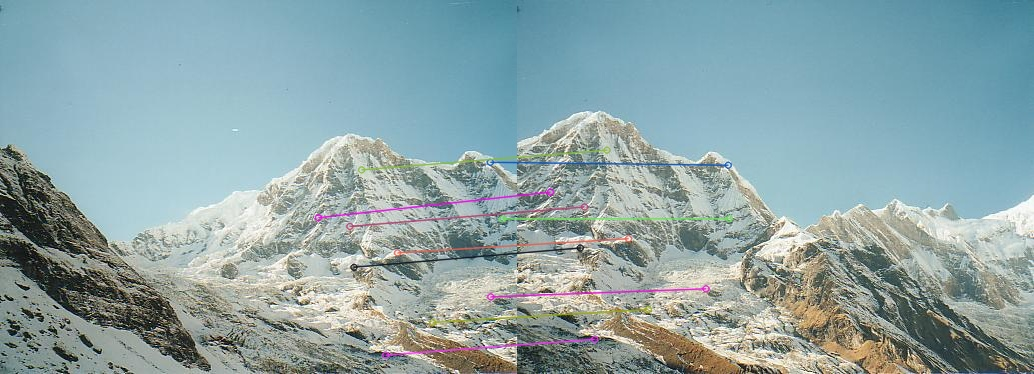
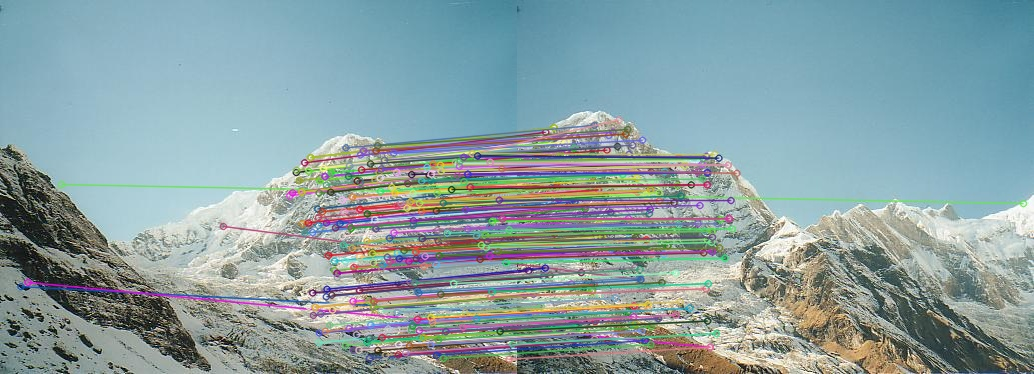
project done

Changed region(s): [[0.0, 0.3235, 1.0, 0.9706], [0.0309, 0.4706, 0.1857, 0.5], [0.2166, 0.5882, 0.2476, 0.6176]]

diff --git a/gmm.py b/gmm.py
@@ -1,0 +1,132 @@
+import numpy as np
+import pandas as pd
+import random
+import matplotlib.pyplot as plt
+from scipy.stats import multivariate_normal
+import sys
+from matplotlib.patches import Ellipse
+np.random.seed(sum([ord(c) for c in 'kishandh@buffalo']))
+
+def plot_cov_ellipse(cov, pos, nstd=2, ax=None, **kwargs):
+    def eigsorted(cov):
+        vals, vecs = np.linalg.eigh(cov)
+        order = vals.argsort()[::-1]
+        return vals[order], vecs[:,order]
+
+    if ax is None:
+        ax = plt.gca()
+
+    vals, vecs = eigsorted(cov)
+    theta = np.degrees(np.arctan2(*vecs[:,0][::-1]))
+    width, height = 2 * nstd * np.sqrt(vals)
+    ellip = Ellipse(xy=pos, width=width, height=height, angle=theta, **kwargs)
+
+    ax.add_artist(ellip)
+    return ellip
+
+def find(data, center, mu, sig, pi, all_prob):
+    for k in range(3):
+        gaussian = multivariate_normal(mean=mu[k],cov=sig[k])
+        num = pi[k] * gaussian.pdf(data)
+        den=[]
+        for p,m,si in zip(pi,mu,sig):
+            den.append(p*multivariate_normal(mean=m,cov=si).pdf(data))
+        den=np.sum(den,axis=0)
+        all_prob[:,k]=num/den
+    return center
+
+def update(data, center, mu, sig, pi, all_prob):
+    res={}
+    clustered_data={}
+    for i in range(len(data)):
+        if center[i] in res:
+            clustered_data[center[i]].append(data[i])
+            res[center[i]]+=1
+        else:
+            clustered_data[center[i]]=[data[i]]
+            res[center[i]]=1
+    data=np.array(data)
+    for i in range(3):
+        zg = np.sum(all_prob[:,i], axis=0)
+        m = (1/zg)*np.sum(data*all_prob[:,i].reshape(len(data),1),axis=0)
+        mu[i]=m
+        diff = data-m
+        sig[i]=((np.dot((np.array(all_prob[:,i]).reshape(len(data),1)*(diff)).transpose(),(diff))/(zg)))
+        pi[i]=(zg/np.sum(all_prob))
+    return pi, mu, sig
+
+_x=[]
+_x.append([(5.9, 3.2), (4.6, 2.9), (6.2, 2.8), (4.7, 3.2), (5.5, 4.2), (5.0, 3.0),
+       (4.9, 3.1), (6.7, 3.1), (5.1, 3.8), (6.0, 3.0)])
+_x.append([(3.600, 79),(1.800, 54),(3.333, 74),(2.283, 62),(4.533, 85),(2.883, 55),(4.700, 88),(3.600, 85),
+   (1.950, 51),(4.350, 85),(1.833, 54),(3.917, 84),(4.200, 78),(1.750, 47),(4.700, 83),(2.167, 52),
+   (1.750, 62),(4.800, 84),(1.600, 52),(4.250, 79),(1.800, 51),(1.750, 47),(3.450, 78),(3.067, 69),
+   (4.533, 74),(3.600, 83),(1.967, 55),(4.083, 76),(3.850, 78),(4.433, 79),(4.300, 73),(4.467, 77),
+   (3.367, 66),(4.033, 80),(3.833, 74),(2.017, 52),(1.867, 48),(4.833, 80),(1.833, 59),(4.783, 90),
+   (4.350, 80),(1.883, 58),(4.567, 84),(1.750, 58),(4.533, 73),(3.317, 83),(3.833, 64),(2.100, 53),
+   (4.633, 82),(2.000, 59),(4.800, 75),(4.716, 90),(1.833, 54),(4.833, 80),(1.733, 54),(4.883, 83),
+   (3.717, 71),(1.667, 64),(4.567, 77),(4.317, 81),(2.233, 59),(4.500, 84),(1.750, 48),(4.800, 82),
+   (1.817, 60),(4.400, 92),(4.167, 78),(4.700, 78),(2.067, 65),(4.700, 73),(4.033, 82),(1.967, 56),
+   (4.500, 79),(4.000, 71),(1.983, 62),(5.067, 76),(2.017, 60),(4.567, 78),(3.883, 76),(3.600, 83),
+   (4.133, 75),(4.333, 82),(4.100, 70),(2.633, 65),(4.067, 73),(4.933, 88),(3.950, 76),(4.517, 80),
+   (2.167, 48),(4.000, 86),(2.200, 60),(4.333, 90),(1.867, 50),(4.817, 78),(1.833, 63),(4.300, 72),
+   (4.667, 84),(3.750, 75),(1.867, 51),(4.900, 82),(2.483, 62),(4.367, 88),(2.100, 49),(4.500, 83),
+   (4.050, 81),(1.867, 47),(4.700, 84),(1.783, 52),(4.850, 86),(3.683, 81),(4.733, 75),(2.300, 59),
+   (4.900, 89),(4.417, 79),(1.700, 59),(4.633, 81),(2.317, 50),(4.600, 85),(1.817, 59),(4.417, 87),
+   (2.617, 53),(4.067, 69),(4.250, 77),(1.967, 56),(4.600, 88),(3.767, 81),(1.917, 45),(4.500, 82),
+   (2.267, 55),(4.650, 90),(1.867, 45),(4.167, 83),(2.800, 56),(4.333, 89),(1.833, 46),(4.383, 82),
+   (1.883, 51),(4.933, 86),(2.033, 53),(3.733, 79),(4.233, 81),(2.233, 60),(4.533, 82),(4.817, 77),
+   (4.333, 76),(1.983, 59),(4.633, 80),(2.017, 49),(5.100, 96),(1.800, 53),(5.033, 77),(4.000, 77),
+   (2.400, 65),(4.600, 81),(3.567, 71),(4.000, 70),(4.500, 81),(4.083, 93),(1.800, 53),(3.967, 89),
+   (2.200, 45),(4.150, 86),(2.000, 58),(3.833, 78),(3.500, 66),(4.583, 76),(2.367, 63),(5.000, 88),
+   (1.933, 52),(4.617, 93),(1.917, 49),(2.083, 57),(4.583, 77),(3.333, 68),(4.167, 81),(4.333, 81),
+   (4.500, 73),(2.417, 50),(4.000, 85),(4.167, 74),(1.883, 55),(4.583, 77),(4.250, 83),(3.767, 83),
+   (2.033, 51),(4.433, 78),(4.083, 84),(1.833, 46),(4.417, 83),(2.183, 55),(4.800, 81),(1.833, 57),
+   (4.800, 76),(4.100, 84),(3.966, 77),(4.233, 81),(3.500, 87),(4.366, 77),(2.250, 51),(4.667, 78),
+   (2.100, 60),(4.350, 82),(4.133, 91),(1.867, 53),(4.600, 78),(1.783, 46),(4.367, 77),(3.850, 84),
+   (1.933, 49),(4.500, 83),(2.383, 71),(4.700, 80),(1.867, 49),(3.833, 75),(3.417, 64),(4.233, 76),
+   (2.400, 53),(4.800, 94),(2.000, 55),(4.150, 76),(1.867, 50),(4.267, 82),(1.750, 54),(4.483, 75),
+   (4.000, 78),(4.117, 79),(4.083, 78),(4.267, 78),(3.917, 70),(4.550, 79),(4.083, 70),(2.417, 54),
+   (4.183, 86),(2.217, 50),(4.450, 90),(1.883, 54),(1.850, 54),(4.283, 77),(3.950, 79),(2.333, 64),
+   (4.150, 75),(2.350, 47),(4.933, 86),(2.900, 63),(4.583, 85),(3.833, 82),(2.083, 57),(4.367, 82),
+   (2.133, 67),(4.350, 74),(2.200, 54),(4.450, 83),(3.567, 73),(4.500, 73),(4.150, 88),(3.817, 80),
+   (3.917, 71),(4.450, 83),(2.000, 56),(4.283, 79),(4.767, 78),(4.533, 84),(1.850, 58),(4.250, 83),
+   (1.983, 43),(2.250, 60),(4.750, 75),(4.117, 81),(2.150, 46),(4.417, 90),(1.817, 46),(4.467, 74)])
+_all_mu=[]
+_all_mu.append([[6.2, 3.2], [6.6, 3.7], [6.5, 3.0]])
+_all_mu.append([[4.0, 81], [2.0, 57], [4.0, 71]])
+_all_sig=[]
+_all_sig.append([ [ [4, 0], [0, 1] ], [ [4, 0], [0, 1] ], [ [4, 0], [0, 1] ]])
+_all_sig.append([ [ [1.30, 13.98], [13.98, 184.82] ], [ [1.30, 13.98], [13.98, 184.82] ], [ [1.30, 13.98], [13.98, 184.82] ]])
+pi=[1/3, 1/3, 1/3]
+
+for i in range(2):
+    x=_x[i]
+    all_mu=_all_mu[i]
+    all_sig=_all_sig[i]
+    all_mu=_all_mu[i]
+    all_sig=_all_sig[i]
+    cluster=[np.random.randint(0,2) for i in range(len(x))]
+    colors = ['r', 'g', 'b']
+    x_all, y_all = zip(*x)
+    old_cluster=None
+    it=0
+    while it<5:
+        it+=1
+        all_prob=np.zeros((len(x),len(all_sig)))
+        new_cluster = find(x.copy(), cluster.copy(), all_mu.copy(), all_sig.copy(), pi.copy(), all_prob)
+        new_pi, new_mu, new_sig = update(x.copy(), new_cluster, all_mu.copy(), all_sig.copy(), pi.copy(), all_prob)
+
+        all_mu=new_mu.copy()
+        all_sig=new_sig.copy()
+        pi=new_pi.copy()
+        old_cluster=cluster.copy()
+        cluster=new_cluster.copy()
+
+        if i==1:
+            x_pr, y_pr=zip(*_x[1])
+            for j in range(3):
+                plt.scatter(x_pr, y_pr)
+                plot_cov_ellipse(all_sig[j], all_mu[j], alpha=0.5, color=colors[j])
+            plt.savefig('task3_gmm_iter'+str(it)+'.jpg')
+            plt.clf()

diff --git a/epipolar_geometry.py b/epipolar_geometry.py
@@ -1,26 +1,23 @@
 import numpy as np
 import cv2
 import random
+from matplotlib import pyplot as plt
 imgs=[]
 imgs_grey=[]
 imgs_kp=[]
 imgs_res=[]
-
+np.random.seed(sum([ord(c) for c in 'kishandh']))
+colors=[tuple(np.random.randint(0,255,3).tolist()) for i in range(10)]
 def drawlines(img1,img2,lines,pts1,pts2):
     r,c,_ = img1.shape
-    #img1 = cv2.cvtColor(img1,cv2.COLOR_GRAY2BGR)
-    #img2 = cv2.cvtColor(img2,cv2.COLOR_GRAY2BGR)
-    for r,pt1,pt2 in zip(lines,pts1,pts2):
-        color = tuple(np.random.randint(0,255,3).tolist())
+    for i,(r,pt1,pt2) in enumerate(zip(lines,pts1,pts2)):
+        color = colors[i]
         x0,y0 = map(int, [0, -r[2]/r[1] ])
         x1,y1 = map(int, [c, -(r[2]+r[0]*c)/r[1] ])
         img1 = cv2.line(img1, (x0,y0), (x1,y1), color,1)
-        print(pt1)
-        print(pt2)
         img1 = cv2.circle(img1,tuple(pt1.flatten()),5,color,-1)
         img2 = cv2.circle(img2,tuple(pt2.flatten()),5,color,-1)
     return img1,img2
-
 filename=['tsucuba_left.png', 'tsucuba_right.png']
 for i in range(1,3):
     img=cv2.imread(filename[i-1])
@@ -43,60 +40,32 @@ for m,n in matches:
     if m.distance < 0.75*n.distance:
         best.append([m])
         good.append(m)
-good=random.sample(good, 10)
+
 res_msift=cv2.drawMatchesKnn(imgs[0],imgs_kp[0],imgs[1],imgs_kp[1], best, None,flags=2)
 cv2.imwrite('task2_matches_knn.jpg', res_msift)
-img_right = np.int32([ imgs_kp[1][m.trainIdx].pt for m in good ])#.reshape(-1,1,2)
-img_left = np.int32([ imgs_kp[0][m.queryIdx].pt for m in good ])#.reshape(-1,1,2)
-F, mask = cv2.findFundamentalMat(img_left, img_right, cv2.FM_LMEDS)
+img_left = np.int32([ imgs_kp[0][m.queryIdx].pt for m in good ]).reshape(-1,1,2)
+img_right = np.int32([ imgs_kp[1][m.trainIdx].pt for m in good ]).reshape(-1,1,2)
+F, mask = cv2.findFundamentalMat(img_left, img_right, cv2.FM_RANSAC)
 print(F)
 
-# We select only inlier points
+rand_indx=[np.random.randint(0,len(mask)-1) for i in range(10)]
 img_left = img_left[mask.ravel()==1]
+img_left=np.array([img_left[i] for i in rand_indx])
 img_right = img_right[mask.ravel()==1]
-# #print(img_left, img_right)
-# #print(len(img_left))
-# #print(len(img_right))
-# #img_left_indx=np.random.choice(len(img_left), 10)
-# #img_right_indx=np.random.choice(len(img_right), 10)
-# #img_left=img_left[img_left_indx]
-# #img_right_indx=img_right[img_right_indx]
-# lines_left = cv2.computeCorrespondEpilines(img_right,2,F)
-# lines_left = lines_left.reshape(-1,3)#[:10]
-# r,c,_ = imgs[0].shape
-# for r,pt1,pt2 in zip(lines_left,img_left,img_right):
-#     color = tuple(np.random.randint(0,255,3).tolist())
-#     x0,y0 = map(int, [0, -r[2]/r[1] ])
-#     x1,y1 = map(int, [c, -(r[2]+r[0]*c)/r[1] ])
-#     imgs[0] = cv2.line(imgs[0], (x0,y0), (x1,y1), color,1)
-#     imgs[0] = cv2.circle(imgs[0],tuple(pt1.flatten()),5,color,-1)
-#     imgs[0] = cv2.circle(imgs[0],tuple(pt2.flatten()),5,color,-1)
-# cv2.imwrite('task2_epi_left.jpg', imgs[0])
-#
-# lines_right = cv2.computeCorrespondEpilines(img_left,2,F)
-# lines_right = lines_right.reshape(-1,3)#[:10]
-# r,c,_ = imgs[1].shape
-# for r,pt1,pt2 in zip(lines_right,img_right,img_left):
-#     color = tuple(np.random.randint(0,255,3).tolist())
-#     x0,y0 = map(int, [0, -r[2]/r[1] ])
-#     x1,y1 = map(int, [c, -(r[2]+r[0]*c)/r[1] ])
-#     imgs[1] = cv2.line(imgs[1], (x0,y0), (x1,y1), color,1)
-#     imgs[1] = cv2.circle(imgs[1],tuple(pt1.flatten()),5,color,-1)
-#     imgs[1] = cv2.circle(imgs[1],tuple(pt2.flatten()),5,color,-1)
-# cv2.imwrite('task2_epi_right.jpg', imgs[1])
-# Find epilines corresponding to points in right image (second image) and
-# drawing its lines on left image
+img_right=np.array([img_right[i] for i in rand_indx])
 lines1 = cv2.computeCorrespondEpilines(img_right, 2,F)
 lines1 = lines1.reshape(-1,3)
 img5,img6 = drawlines(imgs[0],imgs[1],lines1,img_left,img_right)
 
-# Find epilines corresponding to points in left image (first image) and
-# drawing its lines on right image
 lines2 = cv2.computeCorrespondEpilines(img_left, 1,F)
 lines2 = lines2.reshape(-1,3)
 img3,img4 = drawlines(imgs[1],imgs[0],lines2,img_right,img_left)
-#plt.subplot(121),plt.imshow(img5)
+
 cv2.imwrite('task2_epi_left.jpg', img5)
-#plt.subplot(122),plt.imshow(img3)
 cv2.imwrite('task2_epi_right.jpg', img3)
-#plt.show()
+
+stereo = cv2.StereoBM_create(numDisparities=96, blockSize=31)
+disparity = stereo.compute(imgs_grey[0], imgs_grey[1])
+norm_image = cv2.normalize(disparity, None, alpha = 0, beta = 1, norm_type=cv2.NORM_MINMAX, dtype=cv2.CV_32F)
+plt.imshow(norm_image,'gray')
+plt.show()

diff --git a/features_homography.py b/features_homography.py
@@ -6,22 +6,7 @@ imgs_grey=[]
 imgs_kp=[]
 imgs_res=[]
 
-def warpTwoImages(img1, img2, H):
-    h1,w1 = img1.shape[:2]
-    h2,w2 = img2.shape[:2]
-    pts1 = np.float32([[0,0],[0,h1],[w1,h1],[w1,0]]).reshape(-1,1,2)
-    pts2 = np.float32([[0,0],[0,h2],[w2,h2],[w2,0]]).reshape(-1,1,2)
-    pts2_ = cv2.perspectiveTransform(pts2, H)
-    pts = np.concatenate((pts1, pts2_), axis=0)
-    [xmin, ymin] = np.int32(pts.min(axis=0).ravel() - 0.5)
-    [xmax, ymax] = np.int32(pts.max(axis=0).ravel() + 0.5)
-    t = [-xmin,-ymin]
-    Ht = np.array([[1,0,t[0]],[0,1,t[1]],[0,0,1]]) # translate
-
-    result = cv2.warpPerspective(img2, Ht.dot(H), (xmax-xmin, ymax-ymin))
-    result[t[1]:h1+t[1],t[0]:w1+t[0]] = img1
-    return result
-
+np.random.seed(sum([ord(c) for c in 'kishandh@buffalo']))
 
 for i in range(1,3):
     img=cv2.imread('mountain'+str(i)+'.jpg')
@@ -44,21 +29,34 @@ for m,n in matches:
     if m.distance < 0.75*n.distance:
         best.append([m])
         good.append(m)
-res_msift=cv2.drawMatchesKnn(imgs[0],imgs_kp[0],imgs[1],imgs_kp[1], random.sample(best, 10), None,flags=2)
+
+res_msift=cv2.drawMatchesKnn(imgs[0],imgs_kp[0],imgs[1],imgs_kp[1], best, None,flags=2)
 cv2.imwrite('task1_matches_knn.jpg', res_msift)
-src_pts = np.float32([ imgs_kp[1][m.trainIdx].pt for m in good ]).reshape(-1,1,2)
-dst_pts = np.float32([ imgs_kp[0][m.queryIdx].pt for m in good ]).reshape(-1,1,2)
+src_pts = np.float32([ imgs_kp[0][m.queryIdx].pt for m in good ]).reshape(-1,1,2)
+dst_pts = np.float32([ imgs_kp[1][m.trainIdx].pt for m in good ]).reshape(-1,1,2)
 H, mask = cv2.findHomography(src_pts, dst_pts, cv2.RANSAC, 4.0)
 print('Homography matrix H', H)
-matchesMask = mask.ravel().tolist()
 
+# to draw only inliers
+matchesMask = mask.ravel().tolist()
+rand_indx=[np.random.randint(0,len(matchesMask)-1) for i in range(10)]
+matchesMask=[matchesMask[i] for i in rand_indx]
+print(matchesMask)
 draw_params = dict(matchColor = (0,0,255),
                    singlePointColor = None,
-                   matchesMask = matchesMask, # draw only inliers
+                   matchesMask = matchesMask,
                    flags = 2)
-
-img3 = cv2.drawMatches(imgs[0],imgs_kp[0],imgs[1],imgs_kp[1],good,None,**draw_params)
+img3 = cv2.drawMatches(imgs[0],imgs_kp[0],imgs[1],imgs_kp[1],[good[i] for i in rand_indx],None,**draw_params)
 cv2.imwrite('task1_matches.jpg',img3)
 
-#wrap_img = cv2.warpPerspective(imgs[1], H, (imgs[0].shape[1]+imgs[1].shape[1],imgs[0].shape[0]))
-cv2.imwrite('task1_pano.jpg', warpTwoImages(imgs[0], imgs[1], H))
+img1, img2= imgs[1], imgs[0]
+h1,w1,_ = img1.shape
+h2,w2,_ = img2.shape
+pts1 = np.float32([[0,0],[0,h1],[w1,h1],[w1,0]]).reshape(-1,1,2)
+pts2 = np.float32([[0,0],[0,h2],[w2,h2],[w2,0]]).reshape(-1,1,2)
+pts2 = cv2.perspectiveTransform(pts2, H)
+pts = np.concatenate((pts1, pts2), axis=0)
+[xmin, ymin], [xmax, ymax] = np.int32(pts.min(axis=0).ravel()), np.int32(pts.max(axis=0).ravel())
+result = cv2.warpPerspective(img2, np.array([[1,0,-xmin],[0,1,-ymin],[0,0,1]]).dot(H), (xmax-xmin, ymax-ymin))
+result[-ymin:h1-ymin,-xmin:w1-xmin] = img1
+cv2.imwrite('task1_pano.jpg', result)

diff --git a/kmeans_clustering.py b/kmeans_clustering.py
@@ -4,7 +4,7 @@ import sys
 import copy, random
 import matplotlib.pyplot as plt
 import cv2
-
+np.random.seed(sum([ord(c) for c in 'kishandh@buffalo']))
 def euclidian_distance(p1, p2, brg=False):
     if brg:
         return math.sqrt((p2[0]-p1[0])**2 + (p2[1]-p1[1])**2 + (p2[2]-p1[2])**2)
@@ -118,6 +118,7 @@ centers=[(6.2, 3.2), (6.6, 3.7), (6.5, 3.0)]
 
 x=[(5.9, 3.2), (4.6, 2.9), (6.2, 2.8), (4.7, 3.2), (5.5, 4.2), (5.0, 3.0),
    (4.9, 3.1), (6.7, 3.1), (5.1, 3.8), (6.0, 3.0)]
+
 find_and_plot_kmeans(x, centers, 3)
 
 k_all = [3, 5, 10, 20]
@@ -125,7 +126,7 @@ for k in k_all:
     org_baboon=cv2.imread('baboon.jpg')
     centers=[]
     for i in range(k):
-        centers.append(org_baboon[random.randint(1, 512)][random.randint(1, 512)])
+        centers.append(org_baboon[np.random.randint(1, 512)][np.random.randint(1, 512)])
 
     ca=find_and_plot_kmeans2(org_baboon, centers, k)
 

diff --git a/README.py b/README.py
@@ -1,0 +1,4 @@
+pip install pillow -> for saving images in jpg format using
+refered this from wrap image https://stackoverflow.com/questions/13063201/how-to-show-the-whole-image-when-using-opencv-warpperspective
+refered this for draw line https://github.com/techfort/pycv/blob/master/chapter4/depth.py
+read abour guassian mixture model https://en.wikipedia.org/wiki/Mixture_model, https://brilliant.org/wiki/gaussian-mixture-model/
